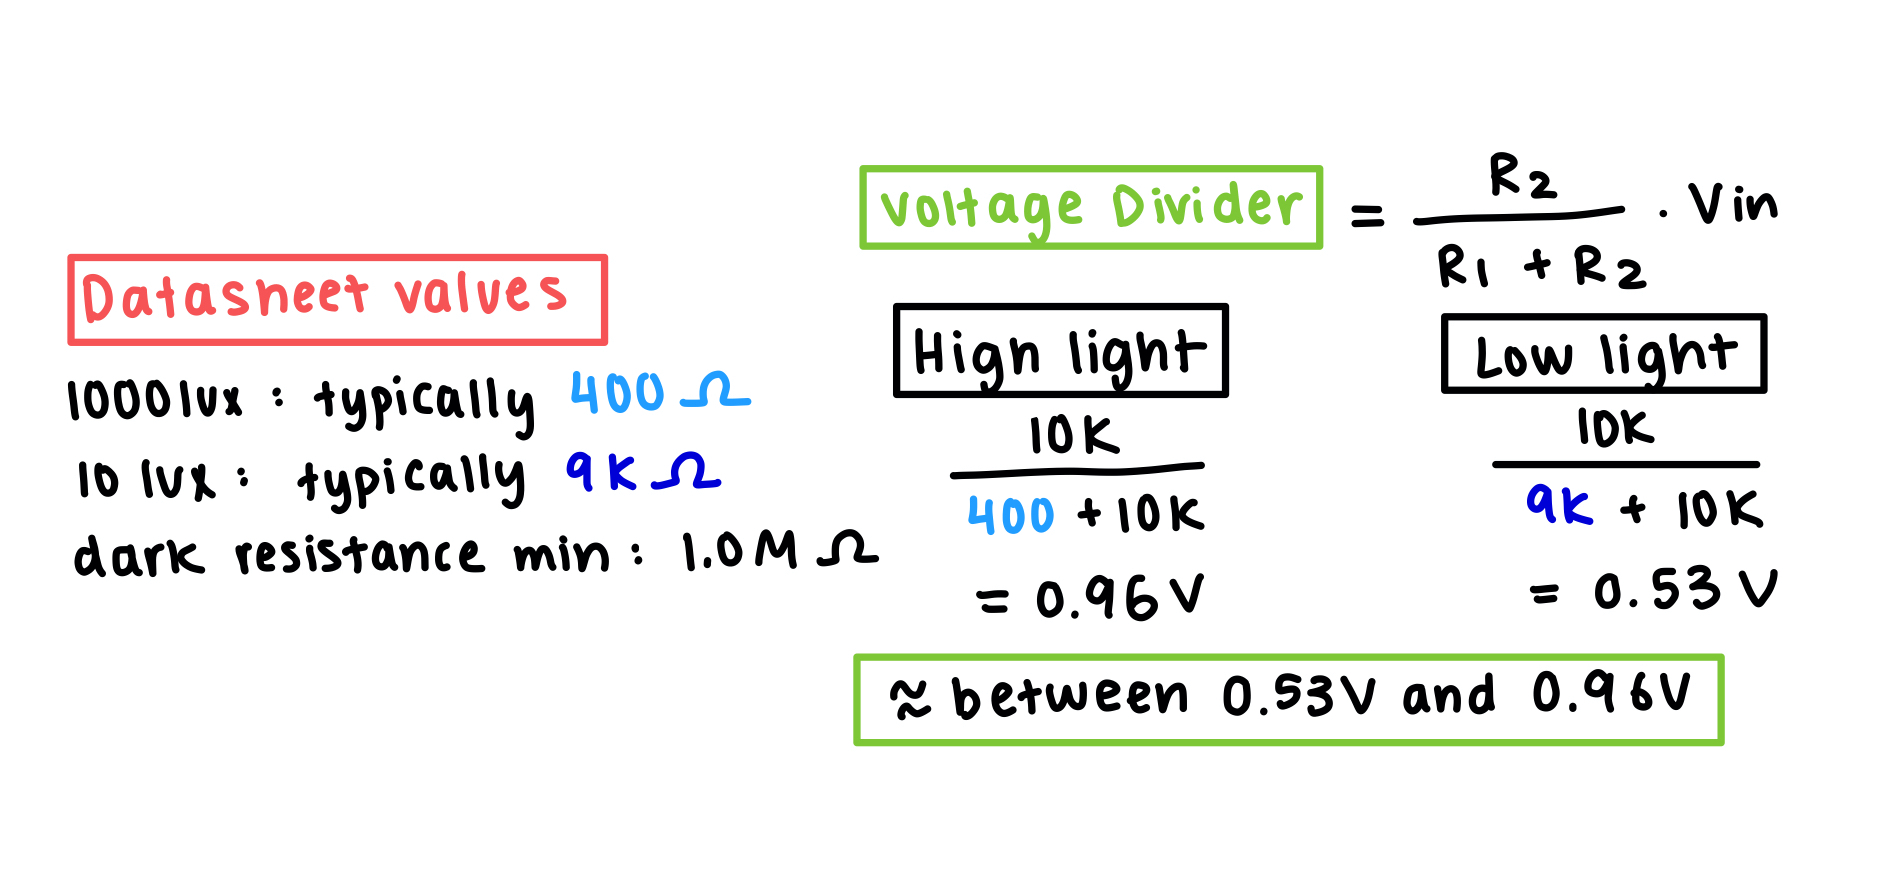
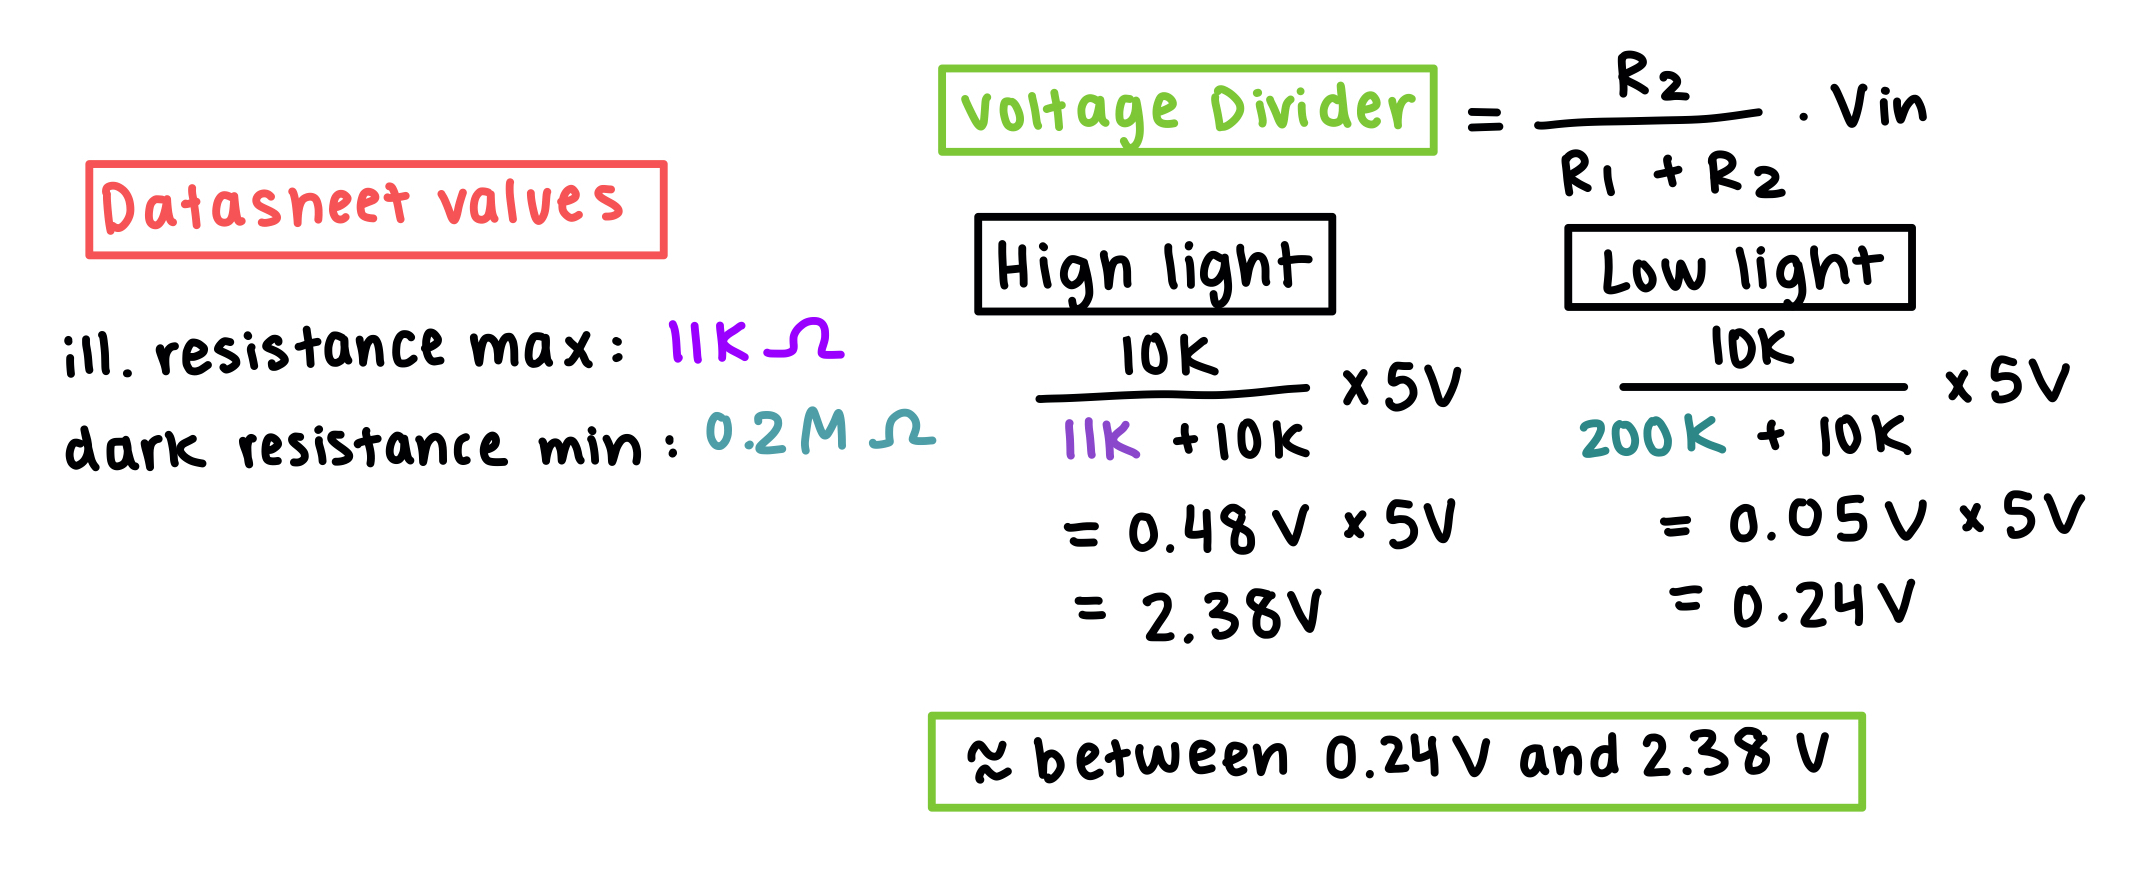
Final Submission for Homework

Changed region(s): [[0.4033, 0.0619, 0.9616, 0.9289], [0.031, 0.1858, 0.4653, 0.6812]]

diff --git a/a3.html b/a3.html
@@ -58,7 +58,7 @@
 
             <br> <br>
 
-            On the right, you can see the final product where there is a <b>countdwon from 3, 2, 1, 0</b> as there is 
+            On the right, you can see the final product where there is a <b>countdown from 3, 2, 1, 0</b> as there is 
             less light around the photoresistor.
         </p>
         <img src="InputOutput.gif" width = "700" />\
@@ -102,13 +102,13 @@
 
         <br> <br>
         
-        I checked the data sheet to see that the typical resistance range of this photoresistor is between 
-        <b>400 Ohms and 9K Ohms. </b> Now, taking this estimated range into account, I calculated the two extremes 
+        I checked the data sheet to see that the min/max resistance range of this photoresistor is between 
+        <b>0.2M Ohms and 11K Ohms.</b> Now, taking this estimated range into account, I calculated the two extremes 
         of the voltage divider.
 
         <br> <br>
         
-        In my calculations, I estimated a voltage range between <b>0.53V and 0.96V.</b> This is within the typical 
+        In my calculations, I estimated a voltage range between <b>0.24V and 2.38V.</b> This is within the typical 
         operating range for an Arduino analog input, thus the <b>10K resistor for R2</b> is a justified choice. This fixed resistor is a 
         standard and commonly available, and also helps keep the power consumption relatively low.
 
@@ -124,6 +124,35 @@
     <h2>Questions</h2>
 
     <br>
+
+    <p>
+        <b>Question One</b>
+        <br> 
+        In my voltage divider, the variable resistor can in fact be either R1 or R2. In the example calculations below, 
+        you can see two scenarios where the variable resistor is different every time, which results in different voltage divide values. 
+        So, depending on how one wants to design the circuit to perform, either can be used.
+        <br> <br>
+        <img src="QuestionOne-InputOutput.jpeg" /> 
+        <br>
+        <b>Question Two</b>
+        <br>
+        In the GIF up above, it is a total of 4 seconds long. The animation starts with the photoresistor fully exposed to light. Thus, the 
+        resistance is low and the voltage drop is high. Then as my hand moves closer to the photoresistor, at around 2 seconds is when it goes completely 
+        dark for one second. this means the resistance is high and the voltage drop is low. Then I remove my hand and it goes back tot he original voltage drop.
+        <br> <br>
+        <img src="QuestionTwo-InputOutput.jpeg" height = "250" /> 
+        <br>
+        <b>Question Three</b>
+        <br>
+        To adapt the code for a 10-pit PWM and a 16-bit analog. I would change the map() and analogWrite codes as follows.
+        <br>
+        <b>sensorValue = map(sensorValue, sensorMin, sensorMax, 0, 65535);</b>
+        <br>
+        <b>analogWrite(ledPin7, 1023);</b>
+        <br>
+        <br>
+
+    </p>
 
     <h2>Code Strategy</h2>
     <br>
